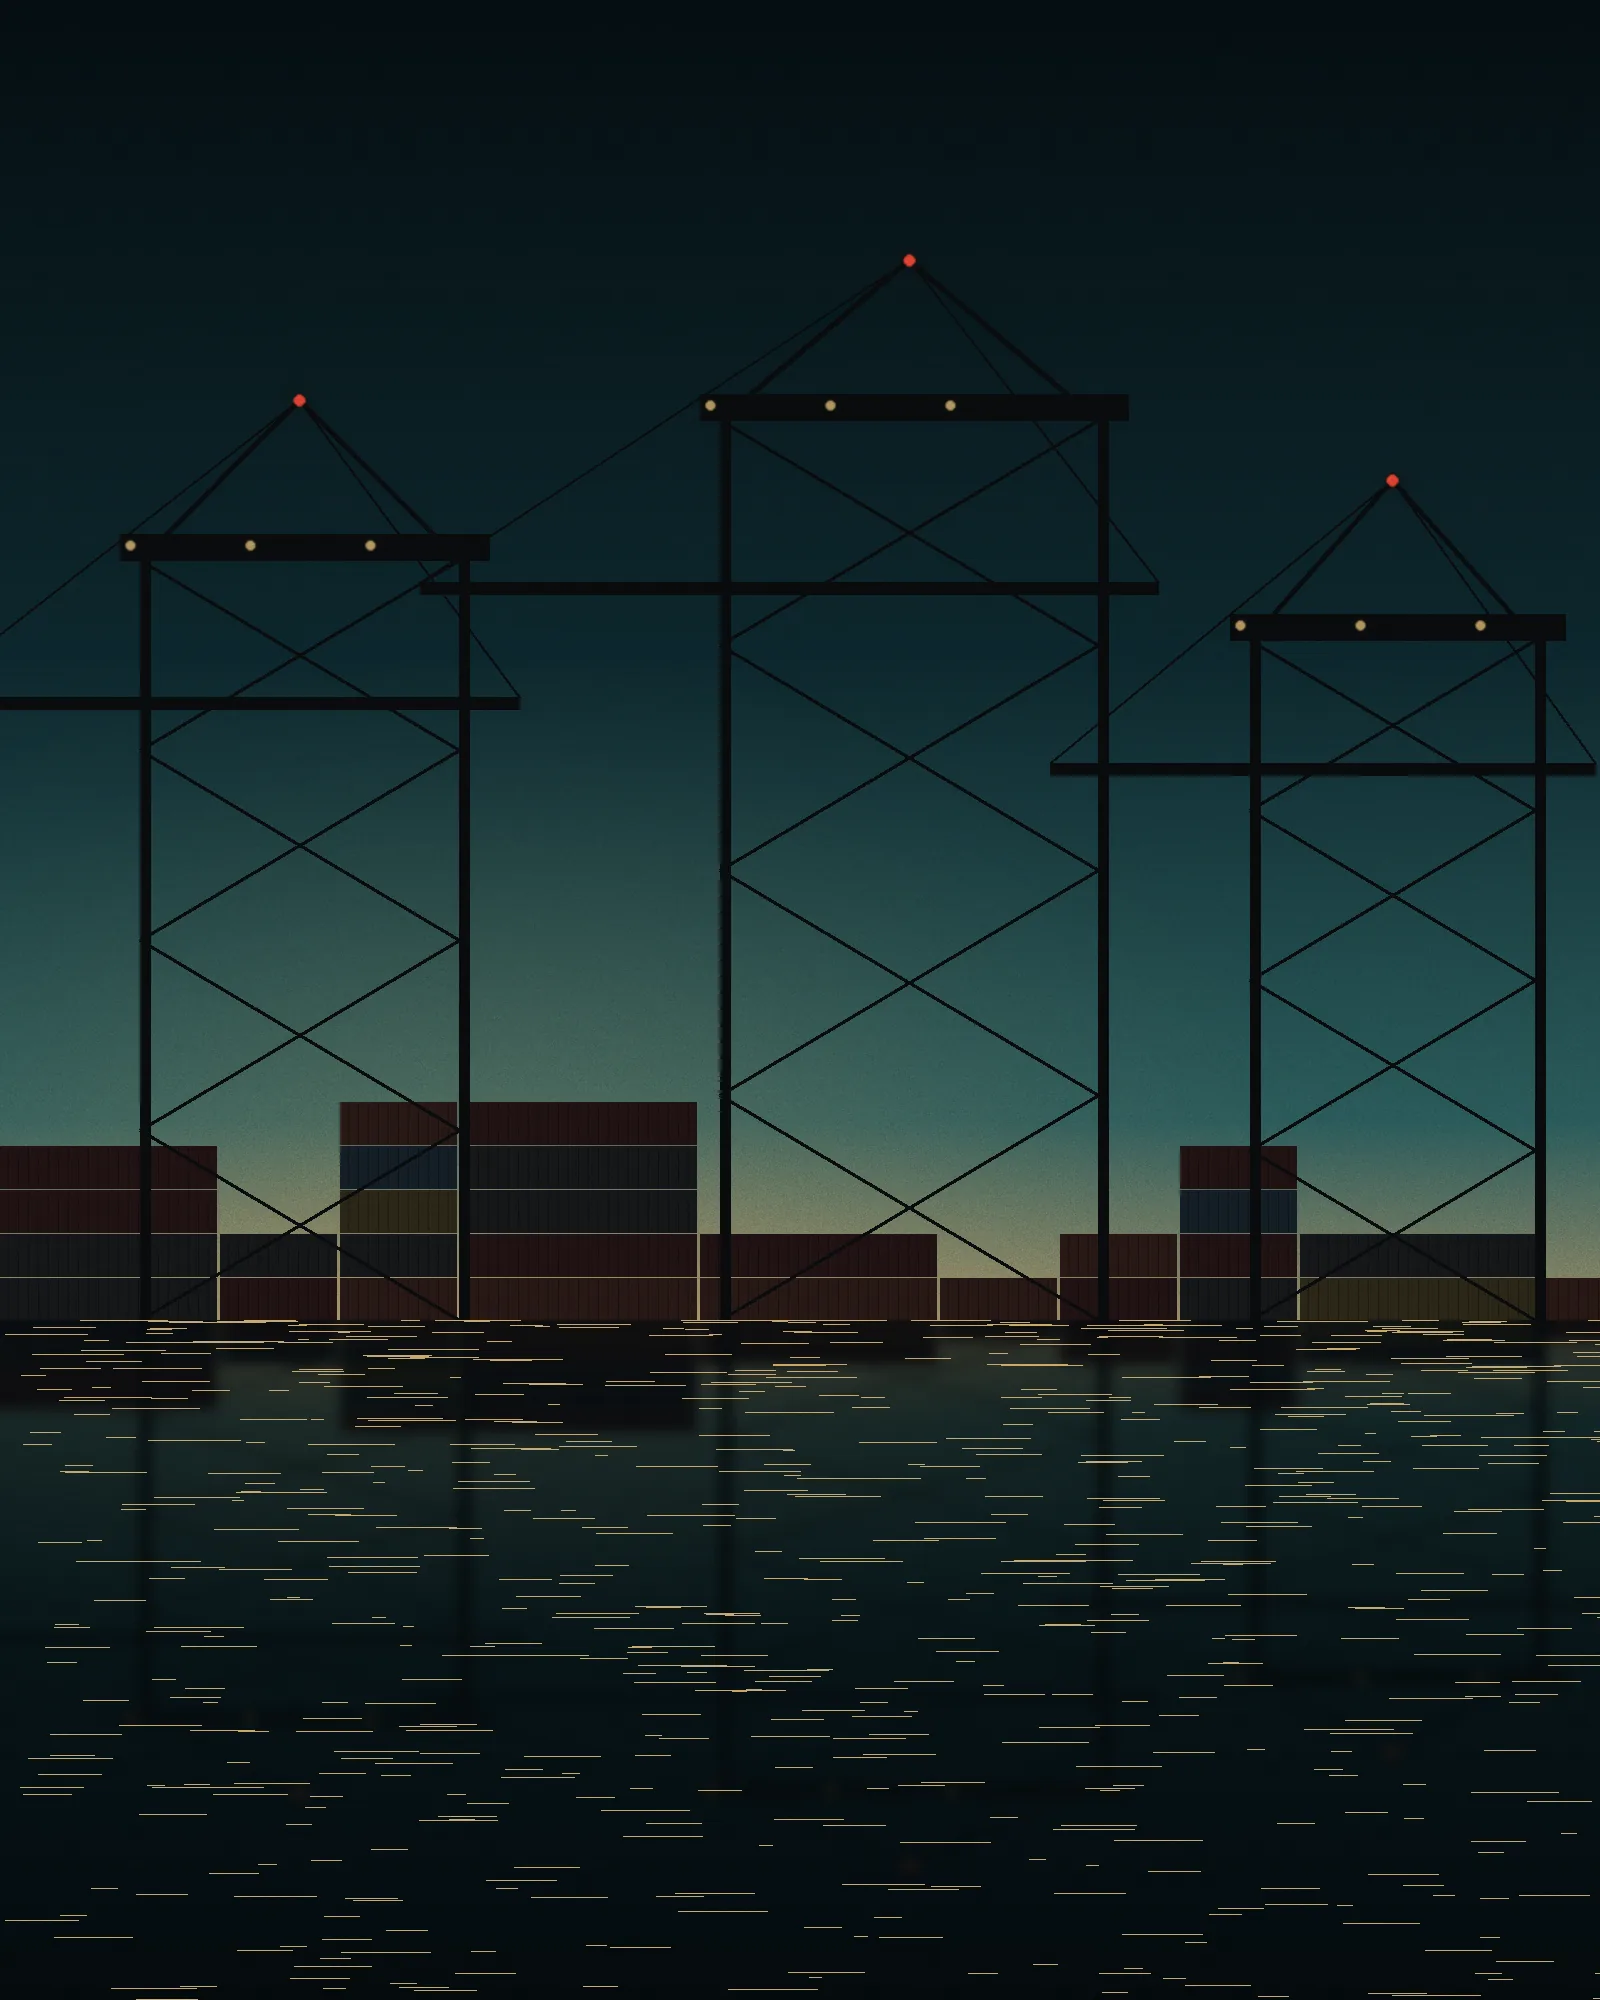
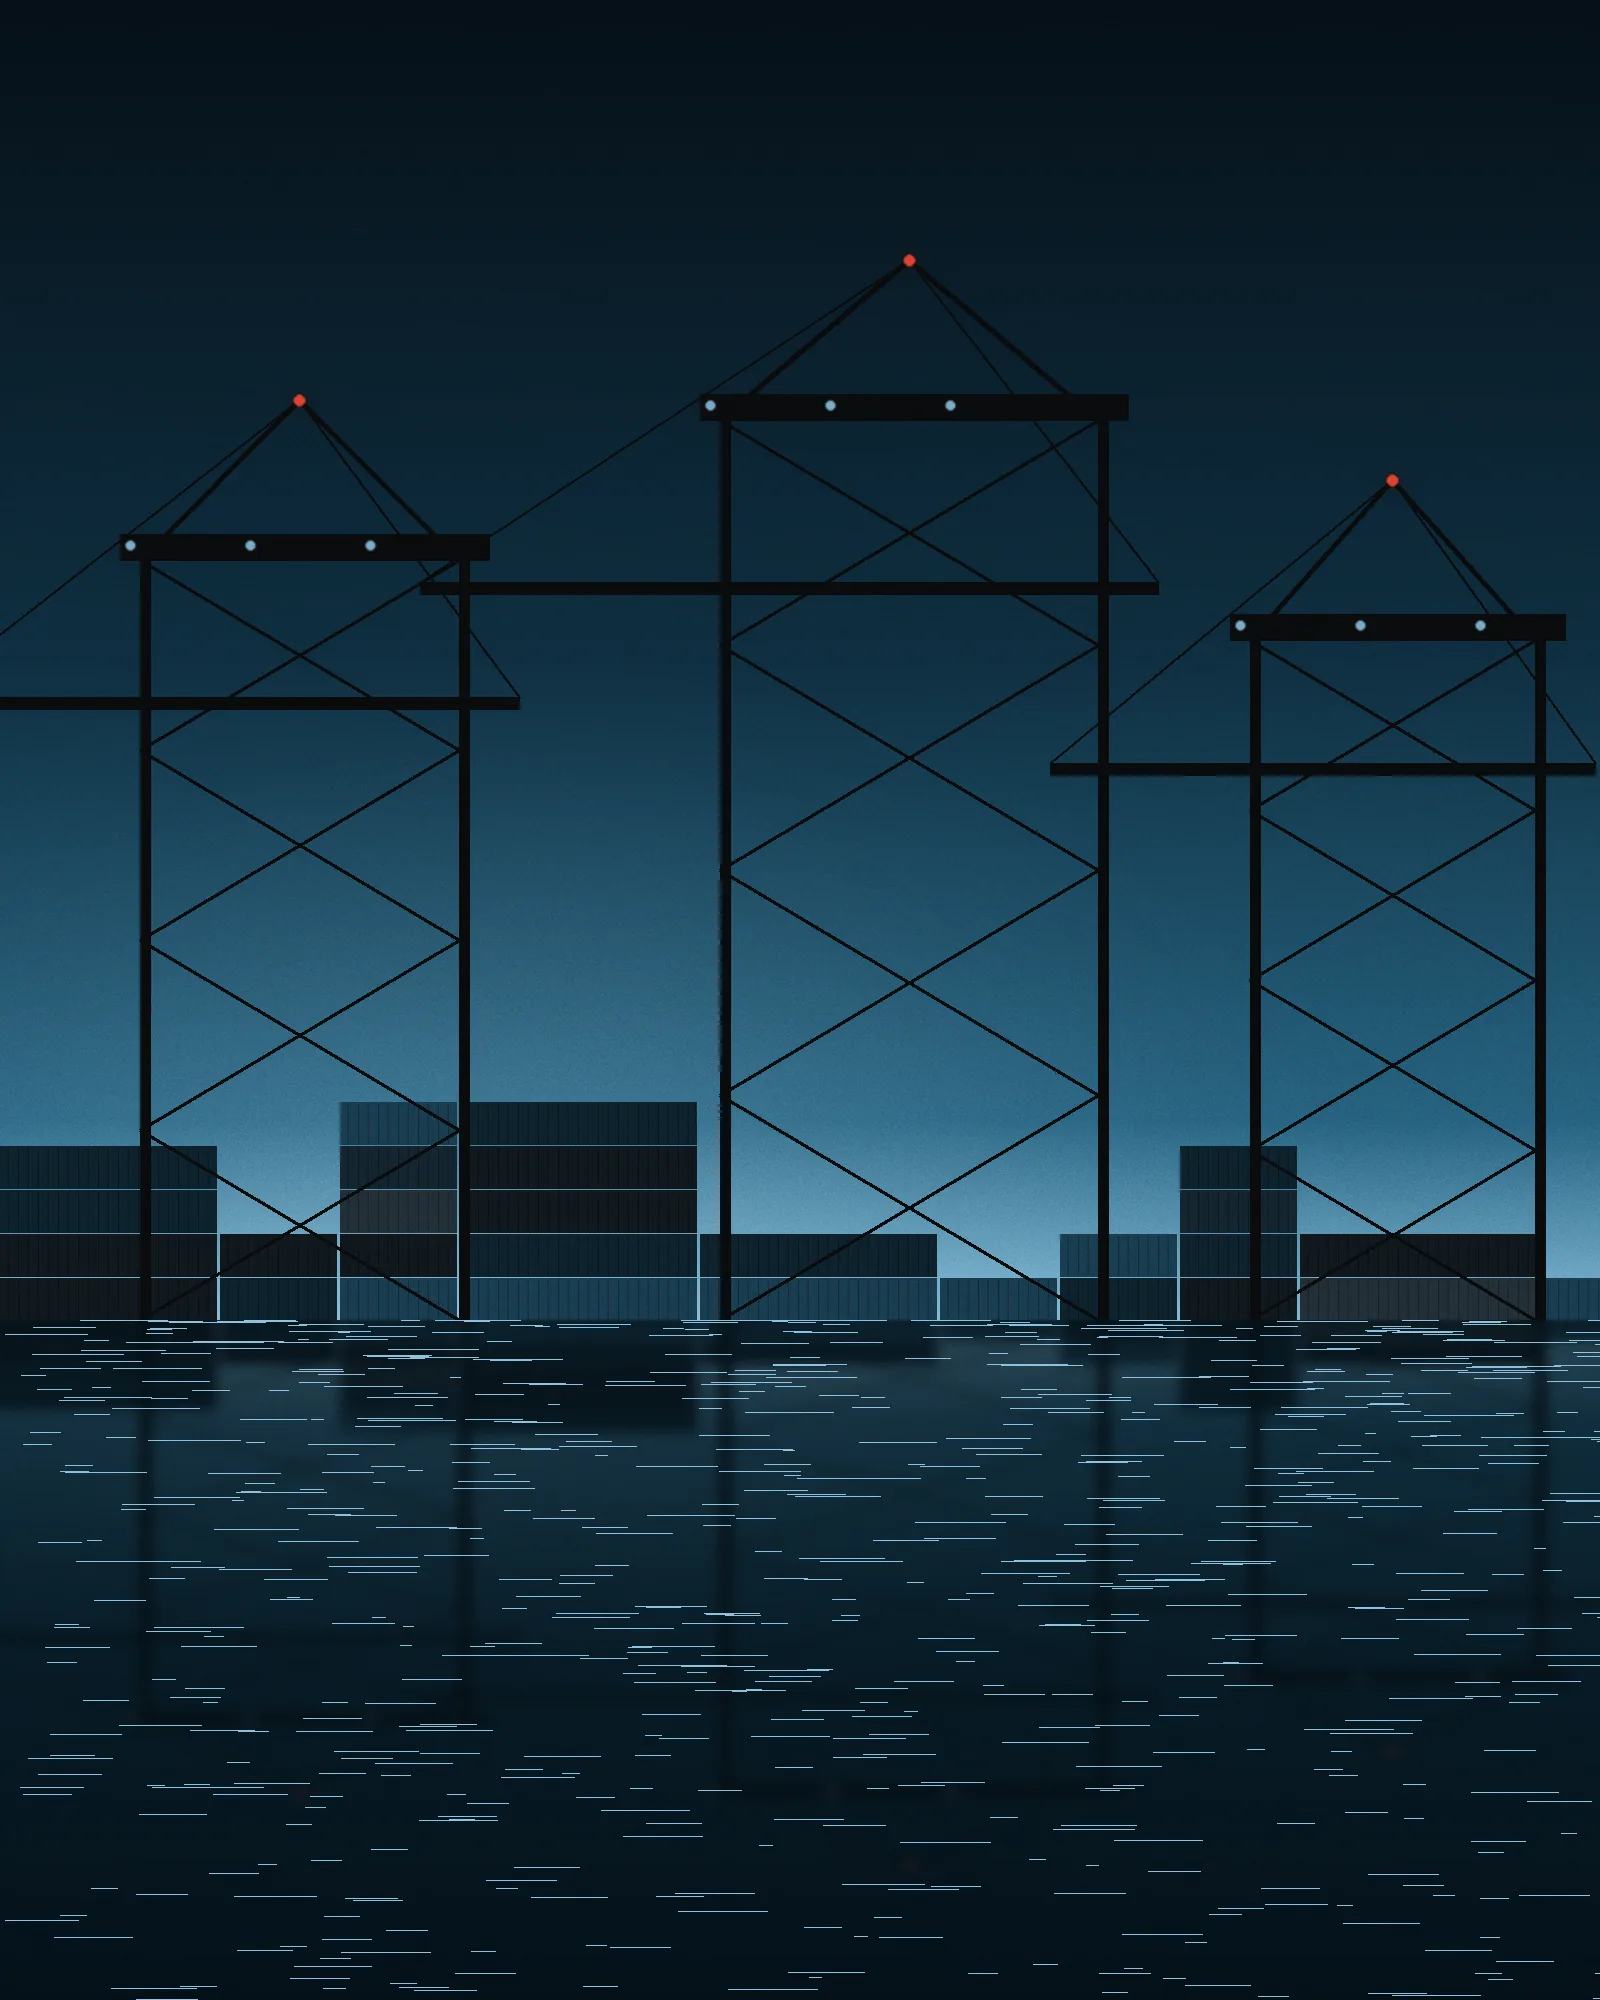
feat(art): repaint the harbour in brand blue-teal with steel containers and cool glow

diff --git a/scripts/art/harbour_cranes.py b/scripts/art/harbour_cranes.py
@@ -36,14 +36,14 @@ def main():
     img = Image.new("RGBA", (W, H), (0, 0, 0, 255))
     sky = vertical_gradient(
         (W, HORIZON),
-        [(0.0, (6, 14, 18)), (0.5, (14, 40, 46)), (0.85, (44, 92, 92)), (1.0, (150, 140, 104))],
+        [(0.0, (6, 16, 24)), (0.5, (16, 48, 66)), (0.85, (40, 100, 130)), (1.0, (130, 186, 214))],
     )
     img.paste(sky, (0, 0))
-    img.alpha_composite(radial_glow((W, H), (int(W * 0.3), HORIZON + 20), 700, (230, 180, 110), strength=90, squash=1.4))
+    img.alpha_composite(radial_glow((W, H), (int(W * 0.3), HORIZON + 20), 700, (170, 214, 236), strength=90, squash=1.4))
 
     d = ImageDraw.Draw(img)
     # Containers along the quay, in muted colours.
-    palette = [(80, 44, 36), (36, 58, 70), (90, 76, 40), (40, 40, 44), (64, 30, 30)]
+    palette = [(49, 126, 166), (36, 70, 92), (70, 96, 112), (30, 44, 56), (22, 66, 88)]
     quay = HORIZON
     x = -20
     while x < W:
@@ -71,7 +71,7 @@ def main():
     # Water: mirrored, blurred, darkened, with broken gold trails under the lights.
     mirror = img.crop((0, 0, W, HORIZON)).transpose(Image.FLIP_TOP_BOTTOM).resize((W, H - HORIZON))
     mirror = mirror.filter(ImageFilter.GaussianBlur(6))
-    mirror.alpha_composite(Image.new("RGBA", mirror.size, (4, 10, 12, 170)))
+    mirror.alpha_composite(Image.new("RGBA", mirror.size, (4, 18, 26, 170)))
     t = ImageDraw.Draw(mirror)
     for _ in range(700):
         x = rnd.randint(0, W)
